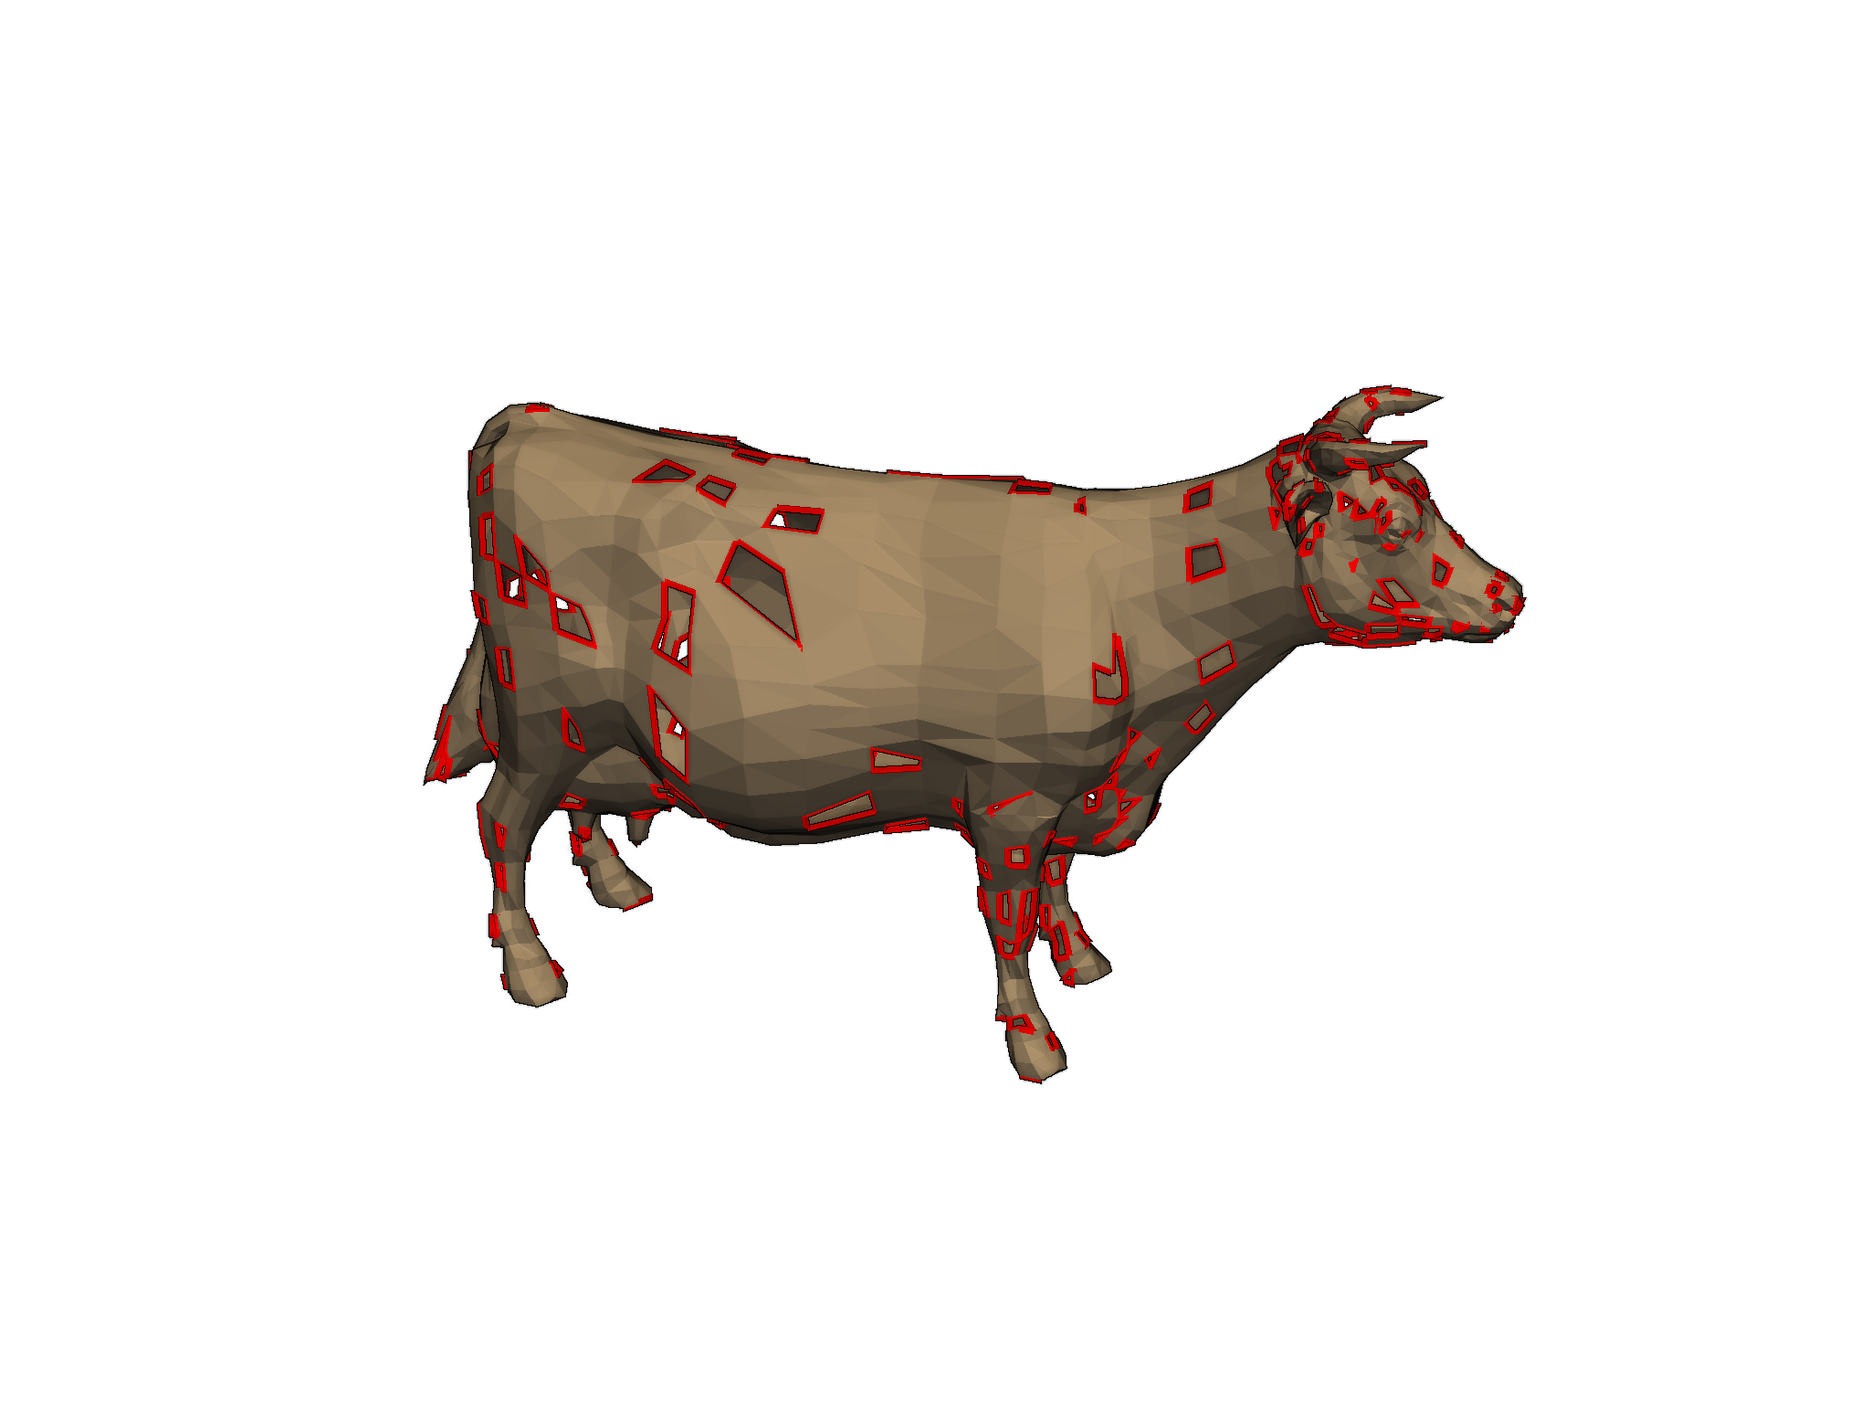
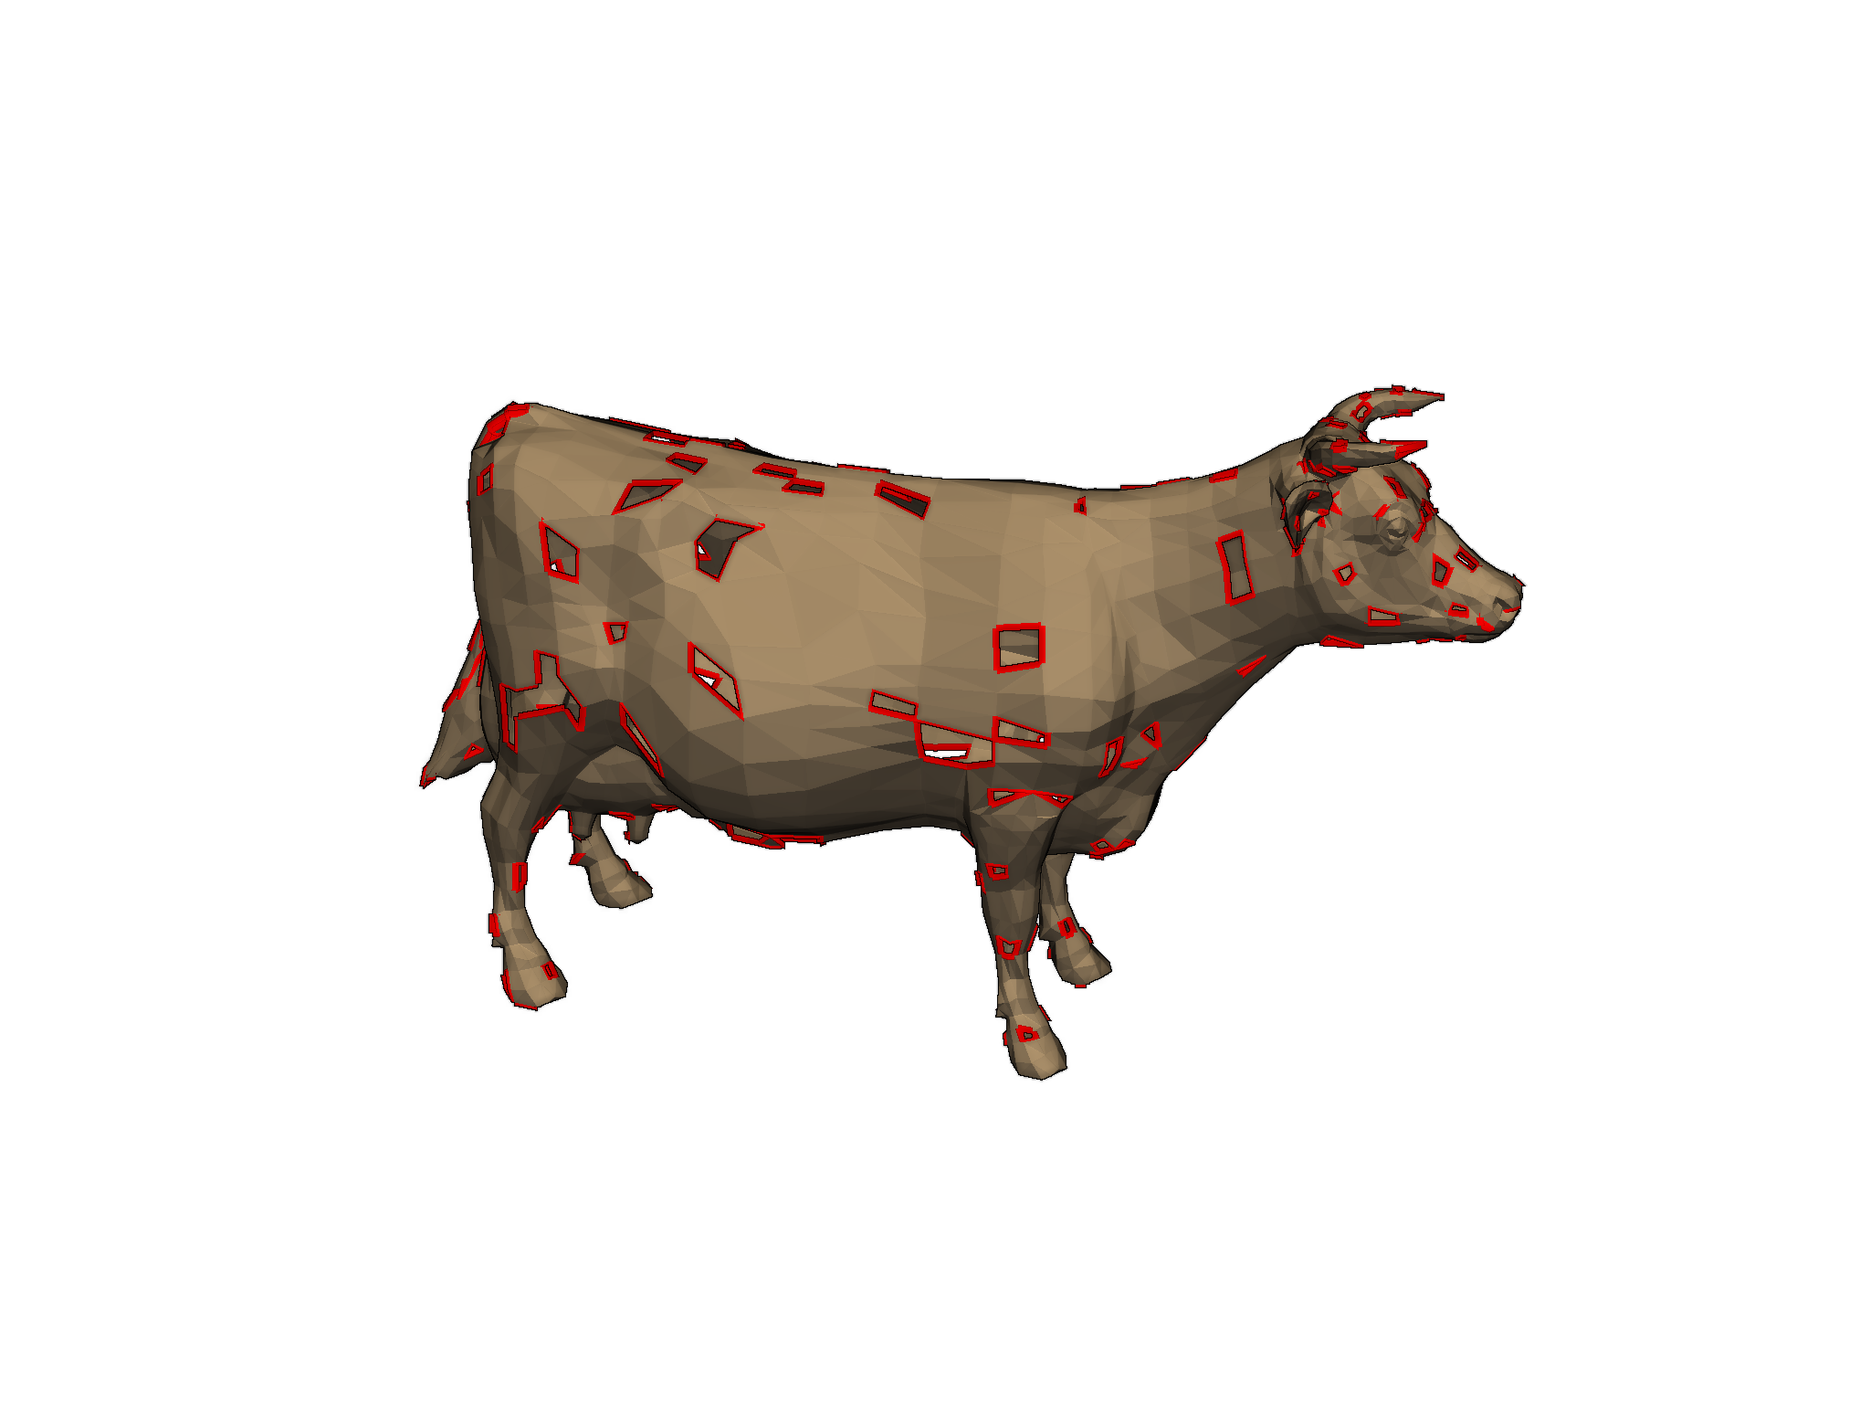
Update docs after building Travis build 82 of pyvista/pymeshfix
The docs were built from the branch 'master' against the commit
24860b199a997eb4417554e3fc04dd7ab31fce3b.

The Travis build that generated this commit is at
https://travis-ci.org/pyvista/pymeshfix/jobs/598945020.

The doctr command that was run is

    /home/travis/virtualenv/python3.7.1/bin/doctr deploy --built-docs ./docs/_build/html/ .

diff --git a/searchindex.js b/searchindex.js
@@ -1,1 +1,1 @@
-Search.setIndex({docnames:["api","examples/bunny","examples/cow","examples/index","examples/sg_execution_times","examples/torso","index"],envversion:{"sphinx.domains.c":1,"sphinx.domains.changeset":1,"sphinx.domains.cpp":1,"sphinx.domains.javascript":1,"sphinx.domains.math":2,"sphinx.domains.python":1,"sphinx.domains.rst":1,"sphinx.domains.std":1,sphinx:56},filenames:["api.rst","examples/bunny.rst","examples/cow.rst","examples/index.rst","examples/sg_execution_times.rst","examples/torso.rst","index.rst"],objects:{"pymeshfix.MeshFix":{extract_holes:[0,1,1,""],load_arrays:[0,1,1,""],mesh:[0,2,1,""],plot:[0,1,1,""],repair:[0,1,1,""],save:[0,1,1,""],write:[0,1,1,""]},pymeshfix:{MeshFix:[0,0,1,""],_meshfix:[0,3,0,"-"],meshfix:[0,3,0,"-"]}},objnames:{"0":["py","class","Python class"],"1":["py","method","Python method"],"2":["py","attribute","Python attribute"],"3":["py","module","Python module"]},objtypes:{"0":"py:class","1":"py:method","2":"py:attribute","3":"py:module"},terms:{"083e":5,"0x7f89027236a8":2,"0x7f8902723888":5,"0x7f8902fdfdc8":2,"320e":5,"442e":5,"446e":2,"624e":5,"637e":2,"680e":5,"696e":2,"701e":2,"720e":5,"760e":2,"998e":2,"case":6,"class":0,"default":0,"float":6,"import":[1,2,5,6],"new":0,"public":6,"return":[0,6],"true":[0,1,2,5],"while":6,FOR:6,One:6,The:6,There:6,Use:2,_meshfix:6,abov:6,absolut:5,access:[0,6],add:2,add_mesh:[1,2,5],addit:0,again:6,agreement:6,all:[0,6],allow:6,along:5,altern:6,ani:6,appi:5,approach:6,arg:0,argument:0,arrai:[0,2,5,6],ascii:0,assum:6,attempt:[0,6],atten:[0,6],author:6,award:6,base:[0,6],been:6,befor:0,begin:0,bell:6,better:6,binari:0,bool:0,both:0,bound:[2,5,6],boundari:[0,6],bring:6,bunni:[3,4],cad:6,camera:[1,2],camera_posit:[1,2,5],can:[0,6],cannot:6,cast:2,cell:[2,5],charact:0,check:6,cite:6,clean:[0,6],clean_from_arrai:6,clean_from_fil:6,click:[1,2,5],clone:6,close:6,cnr:6,coars:6,code:[1,2,5],color:[1,2,5],com:6,commerci:6,commun:6,complex:5,compon:[0,5,6],comput:6,contain:0,contract:6,control:6,copi:6,correct:6,could:6,cow:[3,4],cpo:[1,2,5],cpos_ear:5,creat:6,cython:[0,6],data:0,debug:0,defect:6,defin:1,degener:6,degeneraci:[1,2,5],deprec:[0,2],depth:[1,2,5],design:6,detail:6,digit:6,directli:6,disabl:0,disk:0,distribut:6,doi:6,download:[1,2,5],download_bunni:1,download_cow:2,download_torso:5,drive:6,dual:6,each:0,ear:5,eas:6,either:[0,6],element:6,emphas:5,enabl:0,enable_eye_dome_light:[1,2,5],ensur:5,even:6,exampl:[1,2,4,5],execut:4,extens:0,extract:[0,1,5],extract_geometri:2,extract_hol:[0,1,2,5],eye_dome_light:5,face:[0,6],fail:6,fals:0,faster:0,fclean:6,file:[0,4],filenam:0,filetyp:0,fill:6,fill_small_boundari:6,filter:5,fit:6,fix:[1,2,5],flaw:6,follow:[0,6],format:6,foundat:6,free:6,from:[0,1,2,5,6],ftype:0,full:[1,2,5],galleri:[1,2,3,5],gener:[1,2,3,5,6],git:6,github:6,gnu:6,gpl:6,hard:6,has:6,have:6,help:[1,2,5],here:[1,2,5,6],hole:[0,1,2,5,6],holei:[3,4],holy_cow:2,hope:6,how:6,http:6,idea:6,imati:6,impli:6,indic:0,infer:0,infil:6,inner_loop:6,inplac:0,input:6,instead:2,int32:6,interfac:0,intersect:[1,2,5,6],invert:2,ipynb:[1,2,5],isol:0,join:[0,6],join_closest_compon:6,joincomp:0,jupyt:[1,2,5],keyword:0,kwarg:0,largest:0,later:6,left:6,leverag:6,librari:6,licens:6,lightweight:6,line:0,line_width:[1,2,5],list:6,load:[0,6],load_arrai:[0,6],loadfil:6,locat:2,mai:[0,6],main:6,marco:[0,6],max_it:6,memori:6,merchant:6,mesh:[0,1,2,5,6],meshfix:[0,1,2,5,6],method:0,might:6,minut:[1,2,5],model:6,modifi:6,modul:[0,6],more:6,much:0,must:6,n_cell:2,nativ:6,ndarrai:0,nearbi:[0,6],necessari:6,need:5,nice:2,note:0,notebook:[1,2,5],numpi:[0,2,6],object:[0,6],occurr:6,one:0,open:0,option:[0,6],org:6,other:6,out:[1,2,5,6],outfil:6,outlin:[1,2,5],output:6,over:6,overridden:0,paper:6,paramet:0,part:[5,6],particular:6,patch:[1,2,5],percept:[1,2,5],perform:[0,6],perfrom:5,pip:6,pleas:6,plot:[0,1,2,5,6],plotter:[1,2,5],ply:[0,6],point:[0,2,5],polydata:[0,2,5],polygon:6,polyhedr:5,polyhedron:6,portabl:6,posit:1,present:6,print:[0,2,5,6],process:0,produc:6,program:6,proper:6,publish:6,purpos:6,pymeshfix:[0,1,2,5],pypi:6,python:[0,1,2,5,6],pytmesh:6,pyvista:[0,1,2,5,6],rand:2,random:2,raw:6,reach:6,read:6,readi:1,reason:6,redistribut:6,refer:6,region:6,remov:[0,5,6],remove_smallest_compon:0,render:[1,2],repair:[0,1,2,5,6],repres:6,requir:6,research:6,reserv:6,result:[2,6],return_arrai:6,right:6,root:2,run:[1,2,5,6],s00371:6,same:6,save:[0,6],save_fil:6,script:[1,2,5],second:[1,2,5],see:6,self:6,set:6,should:[0,6],show:[0,1,2,5],show_edg:5,show_hol:0,simpl:0,simpli:5,singl:6,singular:6,small:5,softwar:6,solid:6,sort:6,sourc:[1,2,5,6],specif:6,specifi:0,speed:6,sphinx:[1,2,3,5],sphinx_gallery_thumbnail_numb:[1,2,5],springer:6,stl:0,str:0,string:0,subtl:5,surfac:[0,6],take:6,term:6,tessel:6,test:6,tetrahedr:0,than:0,thei:6,them:0,therefor:6,therein:6,thi:[0,5,6],three:0,threshold:2,thu:6,tight:5,time:[1,2,5],tin:6,tmesh:6,torso:[3,4],total:[1,2,4,5],tri_filt:[2,5],triangl:[0,5,6],triangul:2,triangular:0,txt:6,type:0,typic:6,unavail:6,under:6,understand:6,unless:0,unmodifi:6,updat:0,use:6,used:6,useful:6,user:6,uses:6,using:[0,6],vclean:6,verbos:[0,1,2,5],version:6,vertex:[0,6],view:6,visual:6,vtk:0,vtkinterfac:6,warn:2,warranti:6,water:5,watertight:6,where:[5,6],whistl:6,win:6,wish:6,with_vtk:6,within:6,wonder:6,work:6,wrap:0,wrapper:[0,6],write:[0,6],written:0,www:6,xyz:0,you:6,your:6},titles:["API Reference","Bunny","Holey Cow","Examples","Computation times","Torso","PyMeshFix"],titleterms:{algorithm:6,api:0,bunni:1,citat:6,complet:6,comput:4,copyright:6,cow:2,depend:6,easi:6,exampl:[3,6],holei:2,instal:6,polici:6,pymeshfix:6,refer:0,time:4,torso:5,vtk:6,without:6}})
+Search.setIndex({docnames:["api","examples/bunny","examples/cow","examples/index","examples/sg_execution_times","examples/torso","index"],envversion:{"sphinx.domains.c":1,"sphinx.domains.changeset":1,"sphinx.domains.cpp":1,"sphinx.domains.javascript":1,"sphinx.domains.math":2,"sphinx.domains.python":1,"sphinx.domains.rst":1,"sphinx.domains.std":1,sphinx:56},filenames:["api.rst","examples/bunny.rst","examples/cow.rst","examples/index.rst","examples/sg_execution_times.rst","examples/torso.rst","index.rst"],objects:{"pymeshfix.MeshFix":{extract_holes:[0,1,1,""],load_arrays:[0,1,1,""],mesh:[0,2,1,""],plot:[0,1,1,""],repair:[0,1,1,""],save:[0,1,1,""],write:[0,1,1,""]},pymeshfix:{MeshFix:[0,0,1,""],_meshfix:[0,3,0,"-"],meshfix:[0,3,0,"-"]}},objnames:{"0":["py","class","Python class"],"1":["py","method","Python method"],"2":["py","attribute","Python attribute"],"3":["py","module","Python module"]},objtypes:{"0":"py:class","1":"py:method","2":"py:attribute","3":"py:module"},terms:{"083e":5,"0x7f4bc0038768":2,"0x7f4bc0038948":5,"0x7f4bc0115d08":2,"320e":5,"442e":5,"446e":2,"624e":5,"637e":2,"680e":5,"696e":2,"701e":2,"720e":5,"760e":2,"998e":2,"case":6,"class":0,"default":0,"float":6,"import":[1,2,5,6],"new":0,"public":6,"return":[0,6],"true":[0,1,2,5],"while":6,FOR:6,One:6,The:6,There:6,Use:2,_meshfix:6,abov:6,absolut:5,access:[0,6],add:2,add_mesh:[1,2,5],addit:0,again:6,agreement:6,all:[0,6],allow:6,along:5,altern:6,ani:6,appi:5,approach:6,arg:0,argument:0,arrai:[0,2,5,6],ascii:0,assum:6,attempt:[0,6],atten:[0,6],author:6,award:6,base:[0,6],been:6,befor:0,begin:0,bell:6,better:6,binari:0,bool:0,both:0,bound:[2,5,6],boundari:[0,6],bring:6,bunni:[3,4],cad:6,camera:[1,2],camera_posit:[1,2,5],can:[0,6],cannot:6,cast:2,cell:[2,5],charact:0,check:6,cite:6,clean:[0,6],clean_from_arrai:6,clean_from_fil:6,click:[1,2,5],clone:6,close:6,cnr:6,coars:6,code:[1,2,5],color:[1,2,5],com:6,commerci:6,commun:6,complex:5,compon:[0,2,5,6],comput:6,contain:0,contract:6,control:6,copi:6,correct:6,could:6,cow:[3,4],cpo:[1,2,5],cpos_ear:5,creat:6,cython:[0,6],data:0,debug:0,defect:6,defin:1,degener:6,degeneraci:[1,2,5],deprec:[0,2],depth:[1,2,5],design:6,detail:6,digit:6,directli:6,disabl:0,disk:0,distribut:6,doi:6,download:[1,2,5],download_bunni:1,download_cow:2,download_torso:5,drive:6,dual:6,each:0,ear:5,eas:6,either:[0,6],element:6,emphas:5,enabl:0,enable_eye_dome_light:[1,2,5],ensur:5,even:6,exampl:[1,2,4,5],execut:4,extens:0,extract:[0,1,5],extract_geometri:2,extract_hol:[0,1,2,5],eye_dome_light:5,face:[0,6],fail:6,fals:0,faster:0,fclean:6,file:[0,4],filenam:0,filetyp:0,fill:6,fill_small_boundari:6,filter:5,fit:6,fix:[1,2,5],flaw:6,follow:[0,6],format:6,foundat:6,free:6,from:[0,1,2,5,6],ftype:0,full:[1,2,5],galleri:[1,2,3,5],gener:[1,2,3,5,6],git:6,github:6,gnu:6,gpl:6,hard:6,has:6,have:6,help:[1,2,5],here:[1,2,5,6],hole:[0,1,2,5,6],holei:[3,4],holy_cow:2,hope:6,how:6,http:6,idea:6,imati:6,impli:6,indic:0,infer:0,infil:6,inner_loop:6,inplac:0,input:6,instead:2,int32:6,interfac:0,intersect:[1,2,5,6],invert:2,ipynb:[1,2,5],isol:0,join:[0,6],join_closest_compon:6,joincomp:0,jupyt:[1,2,5],keyword:0,kwarg:0,largest:0,later:6,left:6,leverag:6,librari:6,licens:6,lightweight:6,line:0,line_width:[1,2,5],list:6,load:[0,6],load_arrai:[0,6],loadfil:6,locat:2,mai:[0,6],main:6,marco:[0,6],max_it:6,memori:6,merchant:6,mesh:[0,1,2,5,6],meshfix:[0,1,2,5,6],method:0,might:6,minut:[1,2,5],model:6,modifi:6,modul:[0,6],more:6,much:0,must:6,n_cell:2,nativ:6,ndarrai:0,nearbi:[0,6],necessari:6,need:5,nice:2,note:0,notebook:[1,2,5],numpi:[0,2,6],object:[0,6],occurr:6,one:0,open:0,option:[0,6],org:6,other:6,out:[1,2,5,6],outfil:6,outlin:[1,2,5],output:6,over:6,overridden:0,paper:6,paramet:0,part:[5,6],particular:6,patch:[1,2,5],percept:[1,2,5],perform:[0,6],perfrom:5,pip:6,pleas:6,plot:[0,1,2,5,6],plotter:[1,2,5],ply:[0,6],point:[0,2,5],polydata:[0,2,5],polygon:6,polyhedr:5,polyhedron:6,portabl:6,posit:1,present:6,print:[0,2,5,6],process:0,produc:6,program:6,proper:6,publish:6,purpos:6,pymeshfix:[0,1,2,5],pypi:6,python:[0,1,2,5,6],pytmesh:6,pyvista:[0,1,2,5,6],rand:2,random:2,raw:6,reach:6,read:6,readi:1,reason:6,redistribut:6,refer:6,region:6,remov:[0,2,5,6],remove_smallest_compon:0,render:[1,2],repair:[0,1,2,5,6],repres:6,requir:6,research:6,reserv:6,result:[2,6],return_arrai:6,right:6,root:2,run:[1,2,5,6],s00371:6,same:6,save:[0,6],save_fil:6,script:[1,2,5],second:[1,2,5],see:6,self:6,set:6,should:[0,6],show:[0,1,2,5],show_edg:5,show_hol:0,simpl:0,simpli:5,singl:6,singular:6,small:[2,5],softwar:6,solid:6,sort:6,sourc:[1,2,5,6],specif:6,specifi:0,speed:6,sphinx:[1,2,3,5],sphinx_gallery_thumbnail_numb:[1,2,5],springer:6,stl:0,str:0,string:0,subtl:5,surfac:[0,6],take:6,term:6,tessel:6,test:6,tetrahedr:0,than:0,thei:6,them:0,therefor:6,therein:6,thi:[0,5,6],three:0,threshold:2,thu:6,tight:5,time:[1,2,5],tin:6,tmesh:6,torso:[3,4],total:[1,2,4,5],tri_filt:[2,5],triangl:[0,5,6],triangul:2,triangular:0,txt:6,type:0,typic:6,unavail:6,under:6,understand:6,unless:0,unmodifi:6,updat:0,use:6,used:6,useful:6,user:6,uses:6,using:[0,6],vclean:6,verbos:[0,1,2,5],version:6,vertex:[0,6],view:6,visual:6,vtk:0,vtkinterfac:6,warn:2,warranti:6,water:5,watertight:6,where:[5,6],whistl:6,win:6,wish:6,with_vtk:6,within:6,wonder:6,work:6,wrap:0,wrapper:[0,6],write:[0,6],written:0,www:6,xyz:0,you:6,your:6},titles:["API Reference","Bunny","Holey Cow","Examples","Computation times","Torso","PyMeshFix"],titleterms:{algorithm:6,api:0,bunni:1,citat:6,complet:6,comput:4,copyright:6,cow:2,depend:6,easi:6,exampl:[3,6],holei:2,instal:6,polici:6,pymeshfix:6,refer:0,time:4,torso:5,vtk:6,without:6}})

diff --git a/examples/cow.html b/examples/cow.html
@@ -224,9 +224,9 @@
 </div>
 <p class="sphx-glr-script-out">Out:</p>
 <div class="sphx-glr-script-out highlight-none notranslate"><div class="highlight"><pre><span></span>WARNING:root:DEPRECATED: ``.tri_filter`` is deprecated. Use ``.triangulate`` instead.
-PolyData (0x7f89027236a8)
-  N Cells:      5211
-  N Points:     2902
+PolyData (0x7f4bc0038768)
+  N Cells:      5224
+  N Points:     2903
   X Bounds:     -4.446e+00, 5.998e+00
   Y Bounds:     -3.637e+00, 2.760e+00
   Z Bounds:     -1.701e+00, 1.701e+00
@@ -256,8 +256,9 @@ PolyData (0x7f89027236a8)
 </pre></div>
 </div>
 <p class="sphx-glr-script-out">Out:</p>
-<div class="sphx-glr-script-out highlight-none notranslate"><div class="highlight"><pre><span></span>Patching holes...
-Patched 200 holes
+<div class="sphx-glr-script-out highlight-none notranslate"><div class="highlight"><pre><span></span>Removed 1 small components
+Patching holes...
+Patched 190 holes
 Fixing degeneracies and intersections
 </pre></div>
 </div>
@@ -267,9 +268,9 @@ Fixing degeneracies and intersections
 </pre></div>
 </div>
 <p class="sphx-glr-script-out">Out:</p>
-<div class="sphx-glr-script-out highlight-none notranslate"><div class="highlight"><pre><span></span>PolyData (0x7f8902fdfdc8)
-  N Cells:      5448
-  N Points:     2726
+<div class="sphx-glr-script-out highlight-none notranslate"><div class="highlight"><pre><span></span>PolyData (0x7f4bc0115d08)
+  N Cells:      5456
+  N Points:     2730
   X Bounds:     -3.696e+00, 5.998e+00
   Y Bounds:     -3.637e+00, 2.760e+00
   Z Bounds:     -1.701e+00, 1.701e+00
@@ -280,7 +281,7 @@ Fixing degeneracies and intersections
 </pre></div>
 </div>
 <img alt="../_images/sphx_glr_cow_002.png" class="sphx-glr-single-img" src="../_images/sphx_glr_cow_002.png" />
-<p class="sphx-glr-timing"><strong>Total running time of the script:</strong> ( 0 minutes  8.773 seconds)</p>
+<p class="sphx-glr-timing"><strong>Total running time of the script:</strong> ( 0 minutes  8.573 seconds)</p>
 <div class="sphx-glr-footer class sphx-glr-footer-example docutils container" id="sphx-glr-download-examples-cow-py">
 <div class="sphx-glr-download docutils container">
 <p><a class="reference download internal" download="" href="../_downloads/700f1bf357ea69088c0a34b0aa306d26/cow.py"><code class="xref download docutils literal notranslate"><span class="pre">Download</span> <span class="pre">Python</span> <span class="pre">source</span> <span class="pre">code:</span> <span class="pre">cow.py</span></code></a></p>

diff --git a/examples/sg_execution_times.html b/examples/sg_execution_times.html
@@ -193,11 +193,11 @@
             
   <div class="section" id="computation-times">
 <span id="sphx-glr-examples-sg-execution-times"></span><h1>Computation times<a class="headerlink" href="#computation-times" title="Permalink to this headline">¶</a></h1>
-<p><strong>00:55.592</strong> total execution time for <strong>examples</strong> files:</p>
+<p><strong>00:55.054</strong> total execution time for <strong>examples</strong> files:</p>
 <ul class="simple">
-<li><p><strong>00:27.670</strong>: <a class="reference internal" href="torso.html#sphx-glr-examples-torso-py"><span class="std std-ref">Torso</span></a> (<code class="docutils literal notranslate"><span class="pre">torso.py</span></code>)</p></li>
-<li><p><strong>00:19.149</strong>: <a class="reference internal" href="bunny.html#sphx-glr-examples-bunny-py"><span class="std std-ref">Bunny</span></a> (<code class="docutils literal notranslate"><span class="pre">bunny.py</span></code>)</p></li>
-<li><p><strong>00:08.773</strong>: <a class="reference internal" href="cow.html#sphx-glr-examples-cow-py"><span class="std std-ref">Holey Cow</span></a> (<code class="docutils literal notranslate"><span class="pre">cow.py</span></code>)</p></li>
+<li><p><strong>00:27.599</strong>: <a class="reference internal" href="torso.html#sphx-glr-examples-torso-py"><span class="std std-ref">Torso</span></a> (<code class="docutils literal notranslate"><span class="pre">torso.py</span></code>)</p></li>
+<li><p><strong>00:18.882</strong>: <a class="reference internal" href="bunny.html#sphx-glr-examples-bunny-py"><span class="std std-ref">Bunny</span></a> (<code class="docutils literal notranslate"><span class="pre">bunny.py</span></code>)</p></li>
+<li><p><strong>00:08.573</strong>: <a class="reference internal" href="cow.html#sphx-glr-examples-cow-py"><span class="std std-ref">Holey Cow</span></a> (<code class="docutils literal notranslate"><span class="pre">cow.py</span></code>)</p></li>
 </ul>
 </div>
 

diff --git a/examples/torso.html b/examples/torso.html
@@ -219,7 +219,7 @@ parts of the mesh</p>
 </pre></div>
 </div>
 <p class="sphx-glr-script-out">Out:</p>
-<div class="sphx-glr-script-out highlight-none notranslate"><div class="highlight"><pre><span></span>PolyData (0x7f8902723888)
+<div class="sphx-glr-script-out highlight-none notranslate"><div class="highlight"><pre><span></span>PolyData (0x7f4bc0038948)
   N Cells:      12448
   N Points:     12015
   X Bounds:     -1.680e+02, 1.720e+02
@@ -282,7 +282,7 @@ Fixing degeneracies and intersections
 </pre></div>
 </div>
 <img alt="../_images/sphx_glr_torso_004.png" class="sphx-glr-single-img" src="../_images/sphx_glr_torso_004.png" />
-<p class="sphx-glr-timing"><strong>Total running time of the script:</strong> ( 0 minutes  27.670 seconds)</p>
+<p class="sphx-glr-timing"><strong>Total running time of the script:</strong> ( 0 minutes  27.599 seconds)</p>
 <div class="sphx-glr-footer class sphx-glr-footer-example docutils container" id="sphx-glr-download-examples-torso-py">
 <div class="sphx-glr-download docutils container">
 <p><a class="reference download internal" download="" href="../_downloads/988781b05954ec5068adbfe7a980b827/torso.py"><code class="xref download docutils literal notranslate"><span class="pre">Download</span> <span class="pre">Python</span> <span class="pre">source</span> <span class="pre">code:</span> <span class="pre">torso.py</span></code></a></p>

diff --git a/examples/bunny.html b/examples/bunny.html
@@ -255,7 +255,7 @@ Fixing degeneracies and intersections
 </pre></div>
 </div>
 <img alt="../_images/sphx_glr_bunny_003.png" class="sphx-glr-single-img" src="../_images/sphx_glr_bunny_003.png" />
-<p class="sphx-glr-timing"><strong>Total running time of the script:</strong> ( 0 minutes  19.149 seconds)</p>
+<p class="sphx-glr-timing"><strong>Total running time of the script:</strong> ( 0 minutes  18.882 seconds)</p>
 <div class="sphx-glr-footer class sphx-glr-footer-example docutils container" id="sphx-glr-download-examples-bunny-py">
 <div class="sphx-glr-download docutils container">
 <p><a class="reference download internal" download="" href="../_downloads/81a10a6450959c49a589aa8cee630836/bunny.py"><code class="xref download docutils literal notranslate"><span class="pre">Download</span> <span class="pre">Python</span> <span class="pre">source</span> <span class="pre">code:</span> <span class="pre">bunny.py</span></code></a></p>
